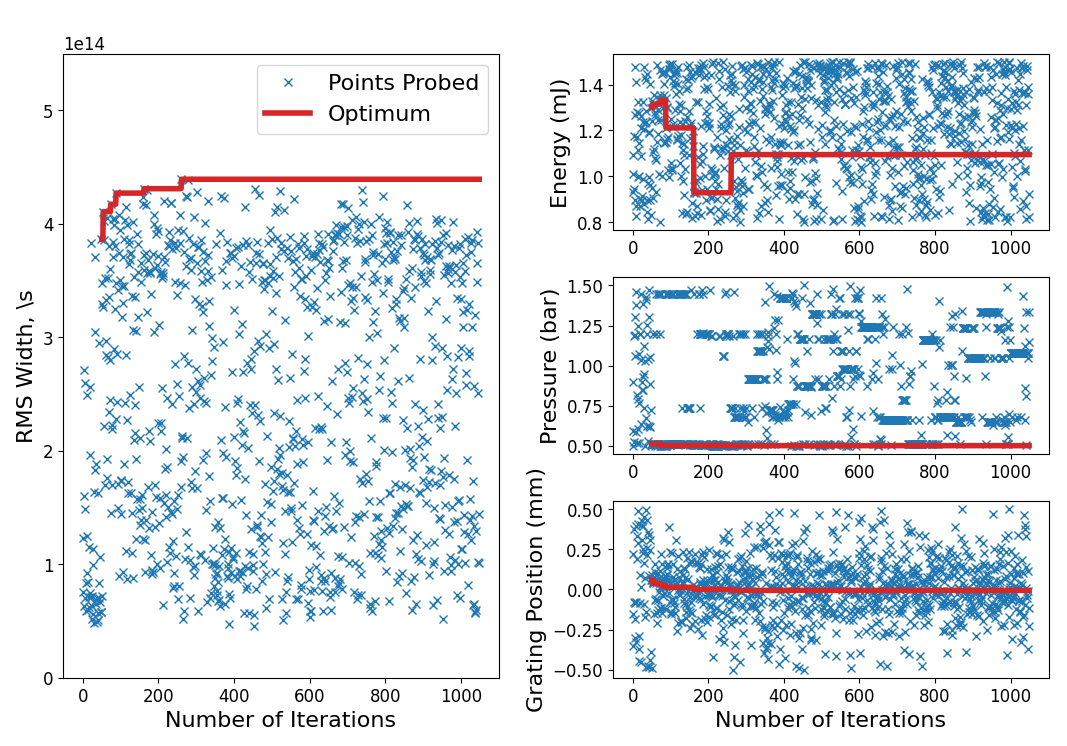
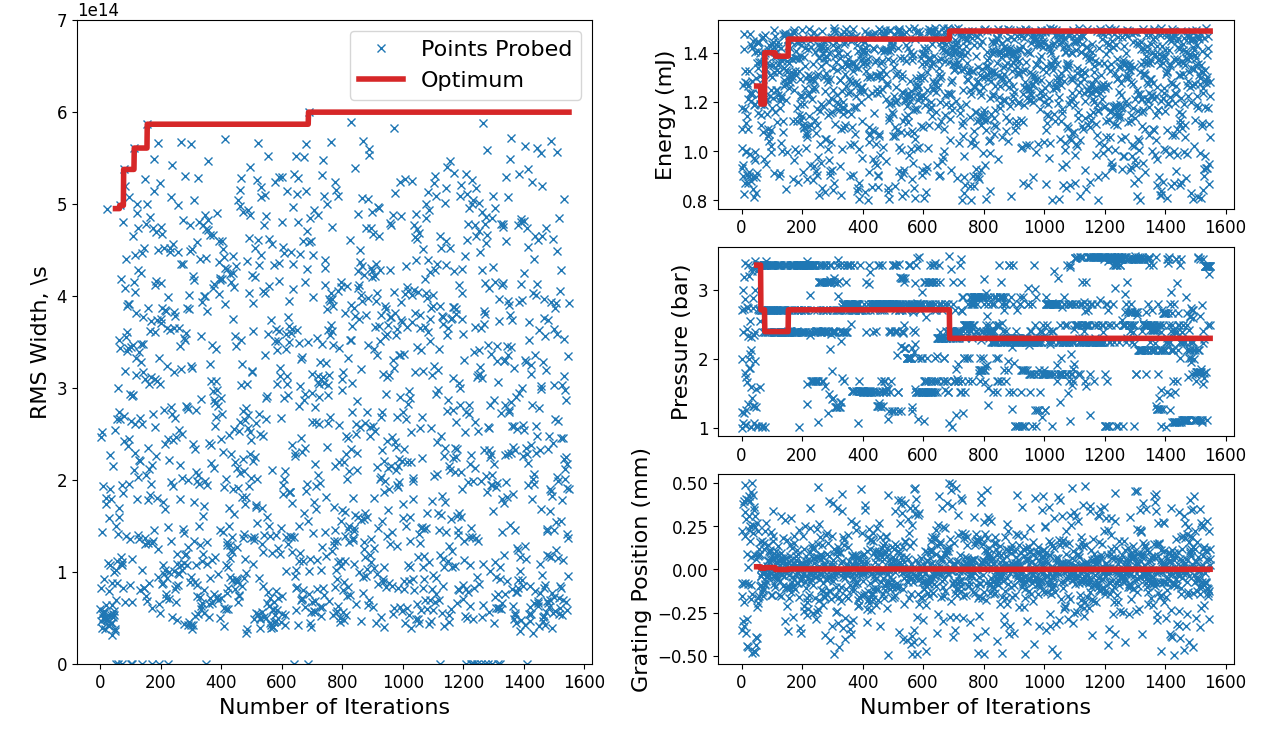
replotted

diff --git a/HCF sim/Python/Luna_BO/tests/optimise_Luna/data/good_data/optimise_our_lab/plot_iteration_path.py b/HCF sim/Python/Luna_BO/tests/optimise_Luna/data/good_data/optimise_our_lab/plot_iteration_path.py
@@ -14,14 +14,14 @@ ax3 = plt.subplot(3,2,6)
 ax4 = plt.subplot(1,2,1)
 axes = [ax1, ax2, ax3, ax4]
 
-df_iter = pd.read_csv("C:\\Users\\iammo\\Documents\\Optimising-Field-Synthesiser\\HCF sim\\Python\\Luna_BO\\tests\\optimise_Luna\\data\\optimise_lab\\Ar_optimisation\\Optimal_Params_points_probed.csv")
+df_iter = pd.read_csv("C:\\Users\\iammo\\Documents\\Optimising-Field-Synthesiser\\HCF sim\\Python\\Luna_BO\\tests\\optimise_Luna\\data\\good_data\\optimise_our_lab\\Optimal_Params_points_probed.csv")
 iteration = df_iter.iloc[:,0]
 target_width_iter = df_iter.iloc[:,1] # \m
 energy = df_iter.iloc[:,2] # J
 pressure = df_iter.iloc[:,3] # bar
 grating_pos = df_iter.iloc[:,4] # m
 
-ax4.set_ylim(0, 5.5e14)
+ax4.set_ylim(0, 7e14)
 ax4.plot(iteration, target_width_iter, 'x', color='tab:blue', label='Points Probed')
 ax4.set_xlabel('Number of Iterations')
 ax4.set_ylabel('RMS Width, \s')
@@ -33,7 +33,7 @@ ax3.plot(iteration, grating_pos*(10**3), 'x', color='tab:blue')
 ax3.set_ylabel('Grating Position (mm)')
 ax3.set_xlabel('Number of Iterations')
 
-df_optimum = pd.read_csv("C:\\Users\\iammo\\Documents\\Optimising-Field-Synthesiser\\HCF sim\\Python\\Luna_BO\\tests\\optimise_Luna\\data\\optimise_lab\\Ar_optimisation\\Optimal_Params_optimums.csv")
+df_optimum = pd.read_csv("C:\\Users\\iammo\\Documents\\Optimising-Field-Synthesiser\\HCF sim\\Python\\Luna_BO\\tests\\optimise_Luna\\data\\good_data\\optimise_our_lab\\Optimal_Params_optimums.csv")
 optimum = df_optimum.iloc[:,0]
 target_width_opt = df_optimum.iloc[:,1] # \m
 energy = df_optimum.iloc[:,2] # J
